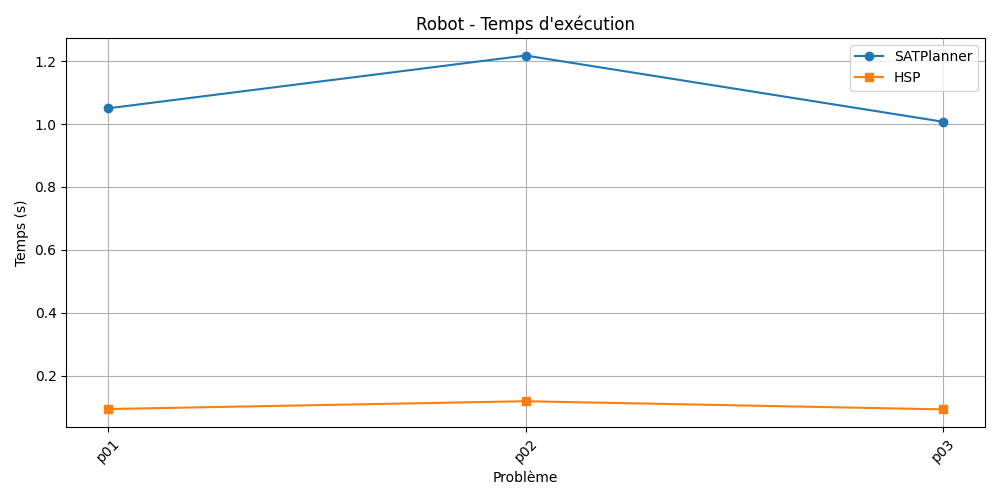
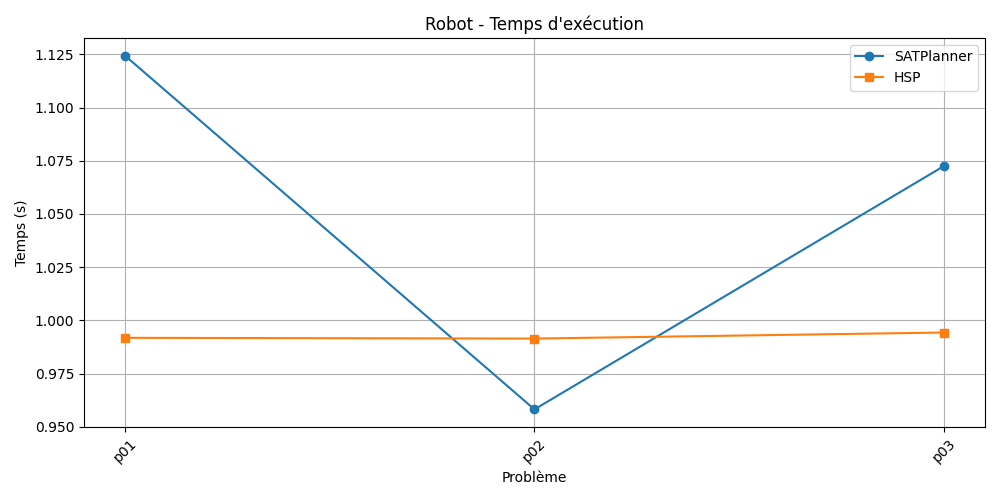
bien

diff --git a/src/fr/uga/pddl4j/tutorial/SATPlanner/benchmarking.py b/src/fr/uga/pddl4j/tutorial/SATPlanner/benchmarking.py
@@ -13,7 +13,7 @@ problems_dir = "/workspaces/SATPlanner_Exercices_OUM/pddl"
 problem_files = ["p01.pddl", "p02.pddl", "p03.pddl"]  # ajoute autant que tu veux
 
 sat_command = "java -cp 'classes:lib/*' fr.uga.pddl4j.tutorial.SATPlanner.SATPlanner"
-hsp_command = "java -cp 'lib/*' fr.uga.pddl4j.planners.STRIPSPlanner"
+hsp_command = "java -cp lib/pddl4j-4.0.0.jar fr.uga.pddl4j.planners.statespace.HSP"
 
 results = []
 
